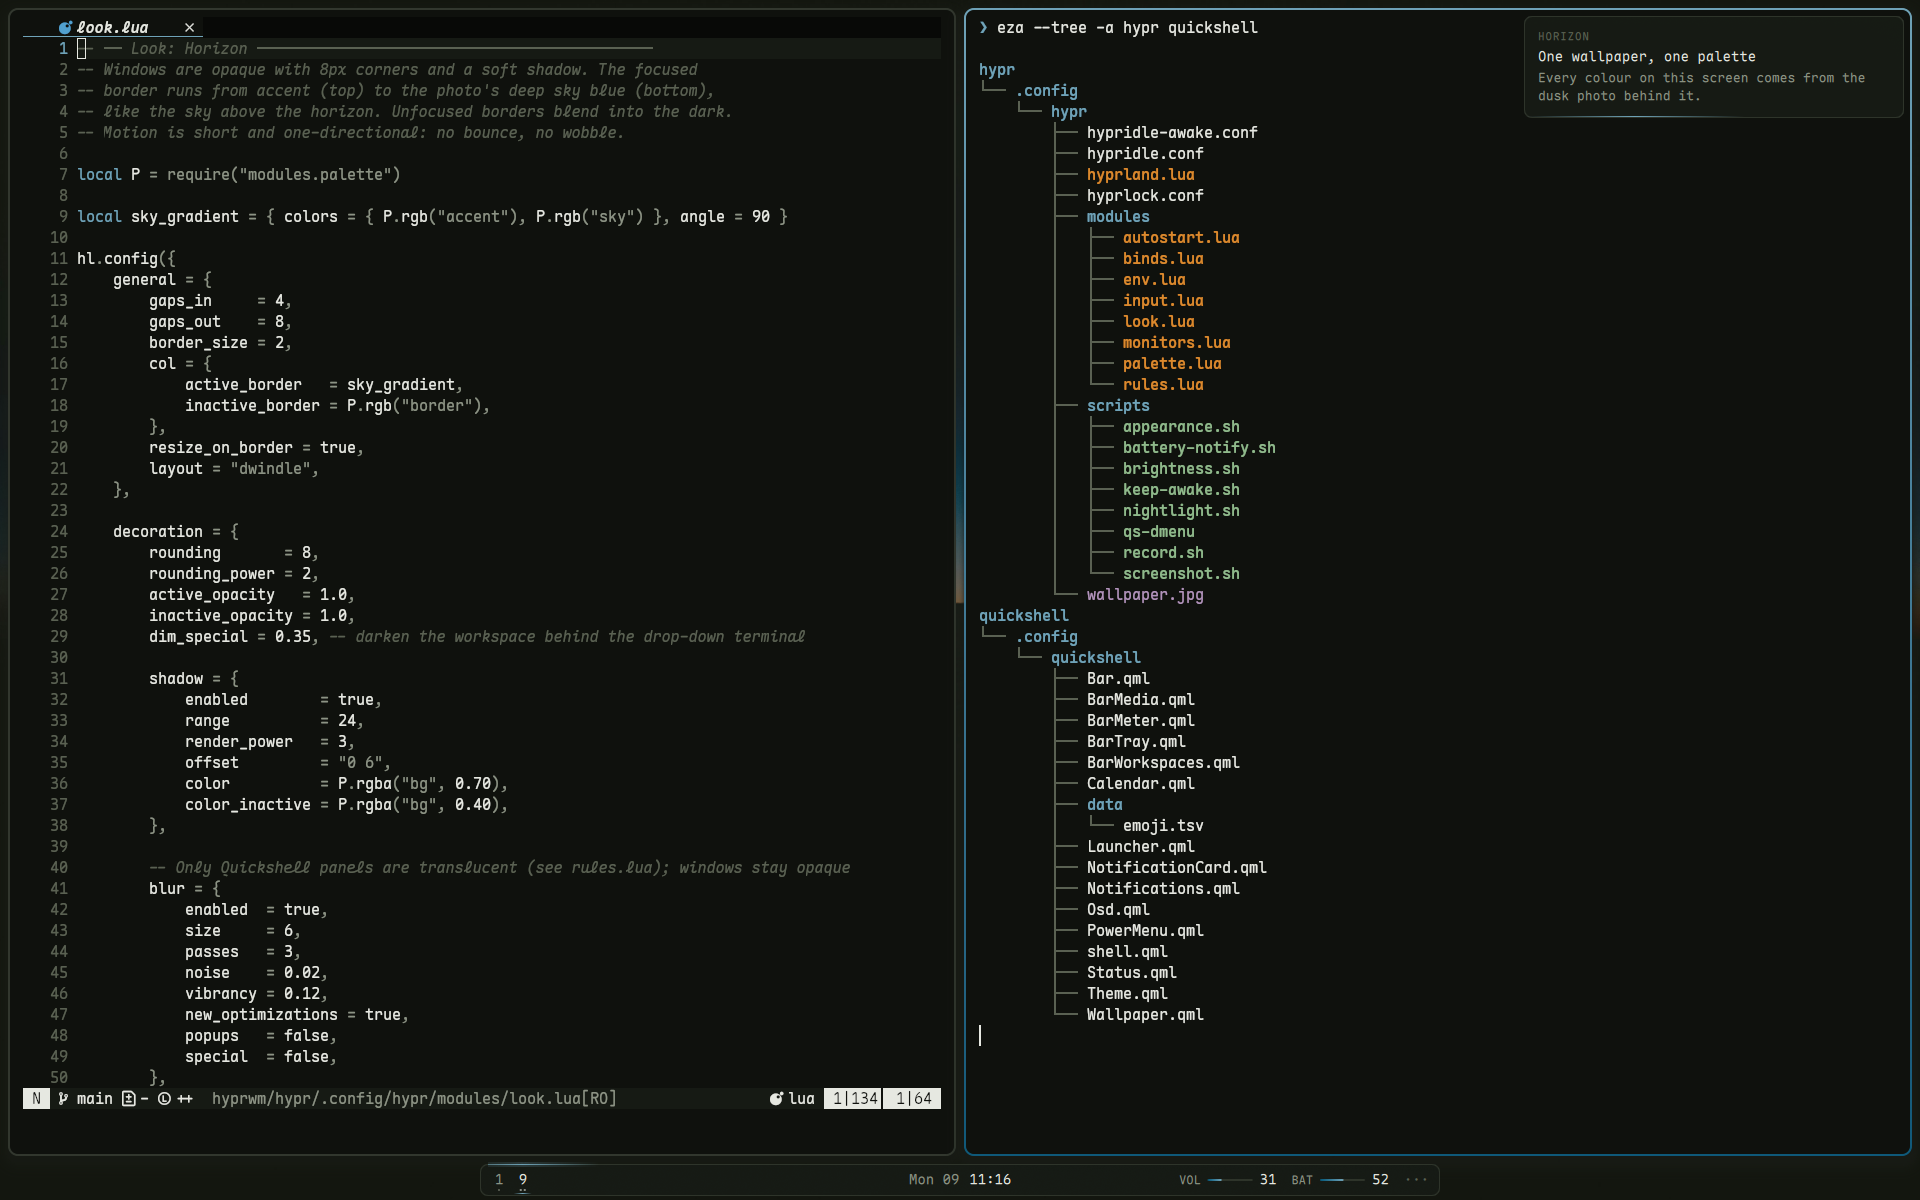
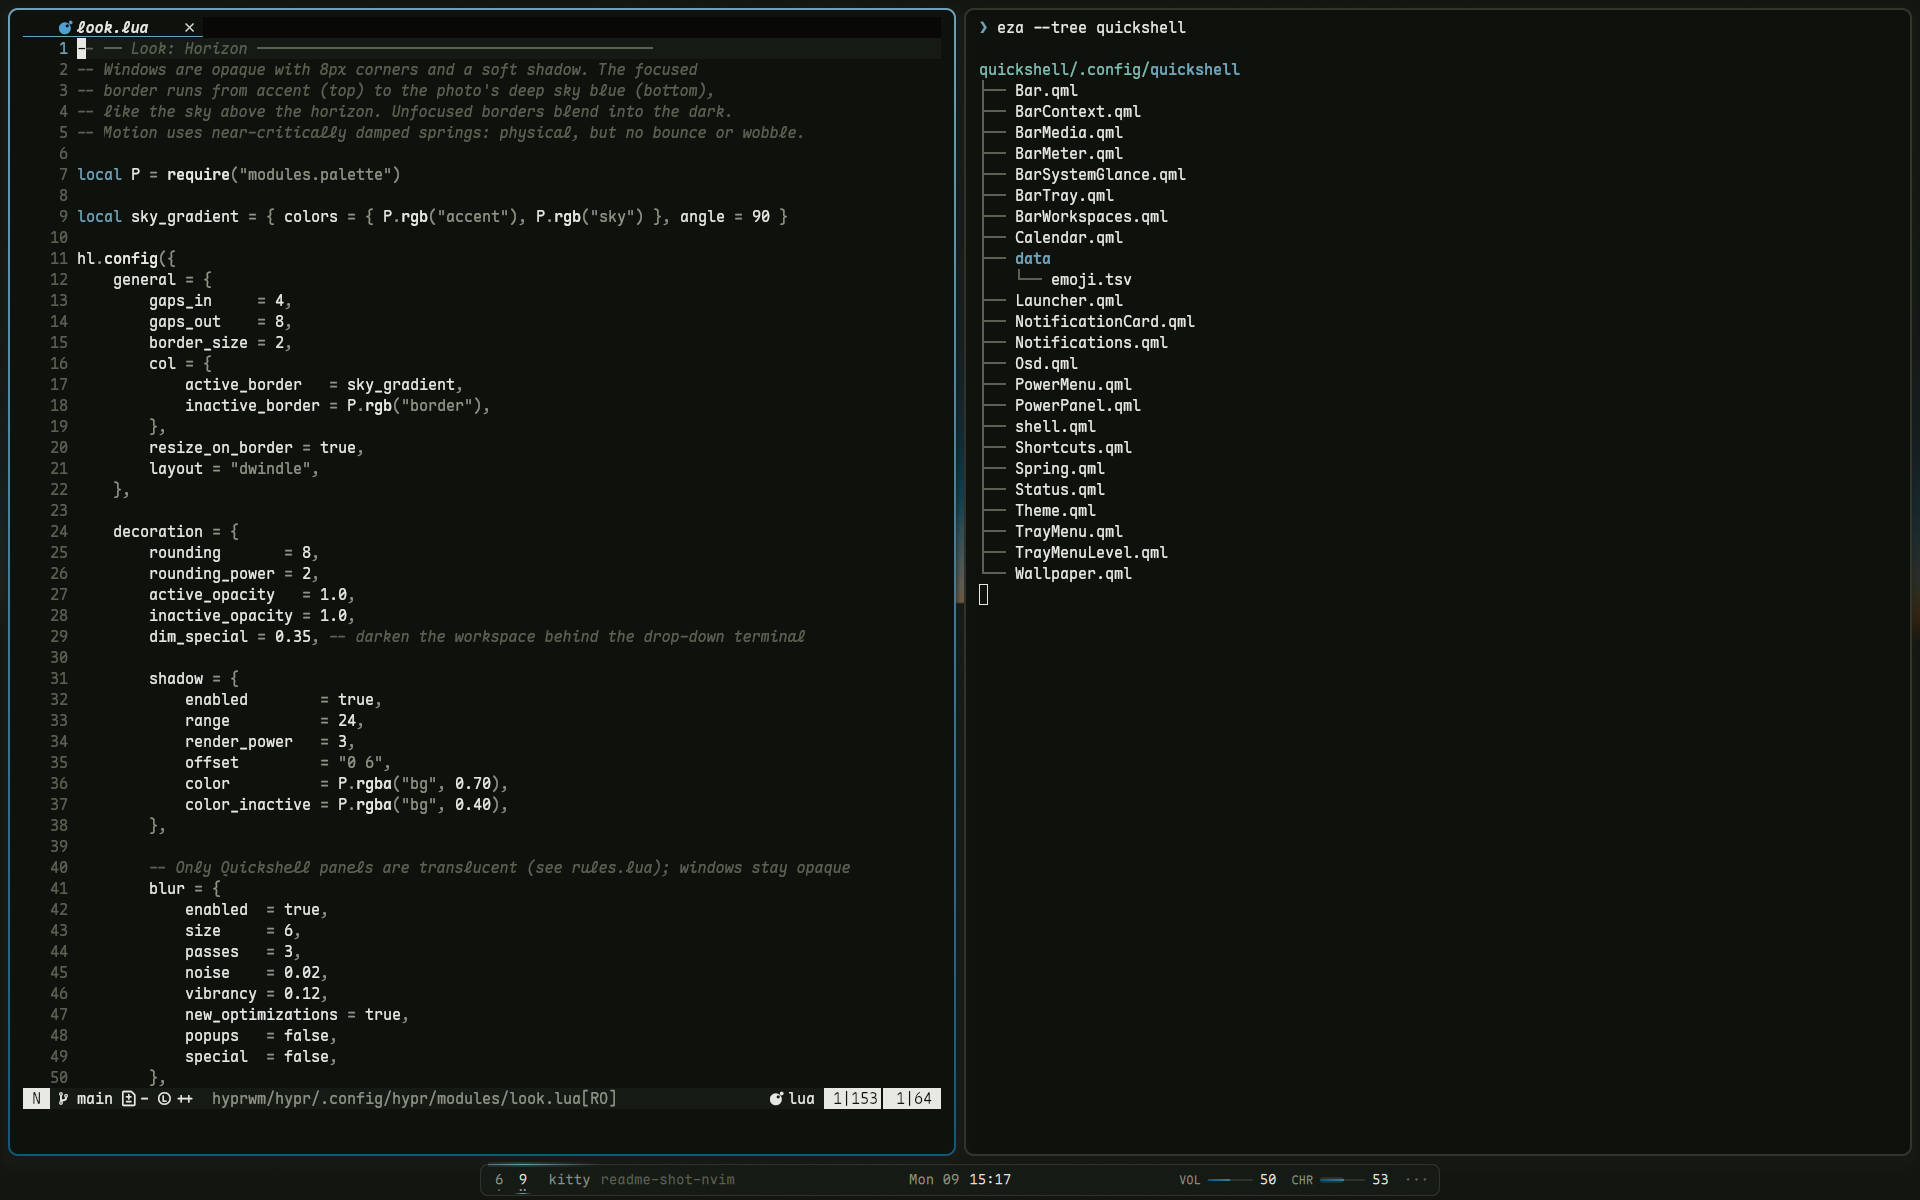
feat(bar): charging sweep, level-coloured meters, system glance
- Battery meter: one sweep of light along it when the charger is plugged in
  (or a dim one back when unplugged, a bright one at full), a soft static
  glow while charging. Nothing animates between events.
- Meters and the volume/brightness OSD: the sky -> accent gradient spans the
  whole track and the fill reveals it, so the colour shows the level.
- Empty workspace: a quiet system glance in the context slot:
  cpu temperature (amber from 85, red from 95), memory used in GB, and
  pending updates from dnf's cache (click: `sudo dnf upgrade` in kitty).
  Read only while shown. One size, two tones, like the window title.
- Fix: the context slot showed the focused window from another workspace
  on an empty one; it now requires the shown workspace.
- README: new screenshots and bar description.

diff --git a/quickshell/.config/quickshell/BarMeter.qml b/quickshell/.config/quickshell/BarMeter.qml
@@ -1,8 +1,13 @@
 import QtQuick
 
 // LABEL ━━━━── 62
-// A thin track whose fill runs sky → accent. `tone` overrides the fill and
-// value colour for warnings (amber) and critical states (red).
+// A thin track. The sky → accent gradient spans the whole track and the fill
+// reveals it, so the colour itself says the level: low shows only deep sky,
+// only high reaches the bright accent (like the sky lightening toward the
+// horizon). `tone` overrides it for warnings (amber) and critical (red).
+//
+// sweep(): one pass of light along the track (e.g. charger plugged in);
+// `lit`: a soft static glow under the fill (e.g. while charging).
 Item {
     id: root
 
@@ -12,11 +17,18 @@ Item {
     property int fontSize: 13
     property color tone: "transparent" // transparent = normal gradient
     property bool dimmed: false        // e.g. muted
+    property bool lit: false
 
     readonly property bool toned: tone.a > 0
 
     signal clicked()
     signal scrolled(int steps)
+
+    // reverse = light running back (e.g. unplugged)
+    function sweep(reverse) {
+        sweepLight.reverse = reverse === true;
+        sweepAnim.restart();
+    }
 
     implicitWidth: row.implicitWidth
     implicitHeight: row.implicitHeight
@@ -43,20 +55,68 @@ Item {
             radius: 1
             color: Theme.border
 
+            Spring { id: fillW; preset: Theme.springs.settle; to: Math.max(0, Math.min(1, root.fraction)) * track.width }
+
+            // static glow under the fill while `lit`
             Rectangle {
-                height: parent.height
-                radius: 1
-                Spring { id: fillW; preset: Theme.springs.settle; to: Math.max(0, Math.min(1, root.fraction)) * track.width }
+                anchors.verticalCenter: parent.verticalCenter
                 width: fillW.value
-                color: root.tone
-                gradient: root.toned ? null : fill
+                height: 6
+                radius: 3
+                color: root.toned ? root.tone : Theme.accent
+                opacity: root.lit ? 0.18 : 0
+                Behavior on opacity { NumberAnimation { duration: Theme.normal } }
+            }
+
+            // the fill reveals a gradient as wide as the track
+            Item {
+                width: fillW.value
+                height: parent.height
+                clip: true
+                Rectangle {
+                    width: track.width
+                    height: parent.height
+                    radius: 1
+                    color: root.tone
+                    gradient: root.toned ? null : levelGradient
+                }
             }
 
             Gradient {
-                id: fill
+                id: levelGradient
                 orientation: Gradient.Horizontal
                 GradientStop { position: 0.0; color: Theme.sky }
                 GradientStop { position: 1.0; color: Theme.accent }
+            }
+
+            // one pass of light along the track
+            Item {
+                anchors.fill: parent
+                clip: true
+                Rectangle {
+                    id: sweepLight
+                    property bool reverse: false
+                    property real p: 0          // 0..1 progress
+                    anchors.verticalCenter: parent.verticalCenter
+                    width: track.width * 0.45
+                    height: 2
+                    x: (reverse ? 1 - p : p) * (track.width + width) - width
+                    opacity: p > 0 && p < 1 ? 1 : 0
+                    gradient: Gradient {
+                        orientation: Gradient.Horizontal
+                        GradientStop { position: 0.0; color: Theme.alpha(Theme.fg, 0) }
+                        GradientStop { position: 0.5; color: sweepLight.reverse ? Theme.alpha(Theme.muted, 0.8) : Theme.fg }
+                        GradientStop { position: 1.0; color: Theme.alpha(Theme.fg, 0) }
+                    }
+                }
+                NumberAnimation {
+                    id: sweepAnim
+                    target: sweepLight
+                    property: "p"
+                    from: 0; to: 1
+                    duration: 800
+                    easing.type: Easing.InOutCubic
+                }
             }
         }
 

diff --git a/quickshell/.config/quickshell/BarSystemGlance.qml b/quickshell/.config/quickshell/BarSystemGlance.qml
@@ -1,0 +1,93 @@
+import QtQuick
+import Quickshell
+import Quickshell.Io
+
+// Quiet system glance for an empty workspace:   cpu 56°   mem 5.4 GB   updates 13
+//   cpu      package temperature (x86_pkg_temp); amber from 85°, red from 95°
+//   mem      used memory (total − available)
+//   updates  from `dnf check-update -C`: the cache dnf-makecache.timer keeps
+//            fresh, so no sudo and no network. Click: kitty with `sudo dnf upgrade`.
+// Temperature and memory every 10 s, updates at most every 30 min, and only
+// while `active` (shown), so it costs nothing the rest of the time.
+Item {
+    id: glance
+
+    property int fontSize: 13
+    property bool active: false
+
+    property int temp: -1              // °C
+    property real memGiB: -1
+    property int updates: -1           // -1 = not checked yet
+    property real _lastUpdateCheck: 0  // ms since epoch
+
+    implicitWidth: line.implicitWidth
+    implicitHeight: fontSize * 1.4
+
+    readonly property string memText: memGiB < 0 ? "–"
+        : memGiB < 1 ? Math.round(memGiB * 1024) + " MB"
+        : memGiB.toFixed(1) + " GB"
+    readonly property color tempColor: temp >= 95 ? Theme.red : temp >= 85 ? Theme.amber : Theme.muted
+
+    // temperature + memory
+    Process {
+        id: readSys
+        command: ["sh", "-c",
+            "for z in /sys/class/thermal/thermal_zone*; do [ \"$(cat $z/type)\" = x86_pkg_temp ] && { cat $z/temp; break; }; done; " +
+            "grep -E '^(MemTotal|MemAvailable):' /proc/meminfo"]
+        stdout: StdioCollector {
+            onStreamFinished: {
+                const lines = text.trim().split("\n");
+                const t = Number(lines[0]);
+                glance.temp = isNaN(t) ? -1 : Math.round(t / 1000);
+                const kb = name => Number((lines.find(l => l.startsWith(name)) || "x 0").split(/\s+/)[1]);
+                const used = kb("MemTotal:") - kb("MemAvailable:");
+                if (used > 0) glance.memGiB = used / 1048576;
+            }
+        }
+    }
+
+    // pending updates (cached metadata only)
+    Process {
+        id: readUpdates
+        command: ["sh", "-c", "dnf check-update -C -q 2>/dev/null | grep -cE '^[^[:space:]]+\\.[^[:space:]]+[[:space:]]+[^[:space:]]+[[:space:]]+[^[:space:]]+'"]
+        stdout: StdioCollector {
+            onStreamFinished: {
+                const n = parseInt(text.trim());
+                glance.updates = isNaN(n) ? 0 : n;
+                glance._lastUpdateCheck = Date.now();
+            }
+        }
+    }
+
+    function refresh() {
+        if (!readSys.running) readSys.running = true;
+        if (!readUpdates.running && Date.now() - _lastUpdateCheck > 30 * 60 * 1000) readUpdates.running = true;
+    }
+    Timer { interval: 10000; running: glance.active; repeat: true; triggeredOnStart: true; onTriggered: glance.refresh() }
+
+    // One line at the bar's normal size, two tones like the window title
+    // (labels dim, values grey); plain spacing instead of separators.
+    Text {
+        id: line
+        anchors.verticalCenter: parent.verticalCenter
+        textFormat: Text.StyledText
+        font.family: Theme.font
+        font.pixelSize: glance.fontSize
+        color: Theme.dim
+        function v(c, s) { return "<font color='" + c + "'>" + s + "</font>" }
+        readonly property string gap: "&nbsp;&nbsp;"   // three spaces read as separate pieces
+        text: "cpu " + v(glance.tempColor, glance.temp < 0 ? "–" : glance.temp + "°")
+            + gap + "mem " + v(Theme.muted, glance.memText)
+            + gap + (glance.updates < 0 ? "updates " + v(Theme.muted, "–")
+                   : glance.updates === 0 ? "up to date"
+                   : "updates " + v(Theme.muted, glance.updates))
+    }
+
+    // click the updates part: a terminal with the upgrade ready to run
+    MouseArea {
+        anchors.fill: parent
+        enabled: glance.updates > 0
+        cursorShape: enabled ? Qt.PointingHandCursor : Qt.ArrowCursor
+        onClicked: Quickshell.execDetached(["kitty", "--hold", "sh", "-c", "sudo dnf upgrade --refresh"])
+    }
+}

diff --git a/quickshell/.config/quickshell/BarContext.qml b/quickshell/.config/quickshell/BarContext.qml
@@ -6,7 +6,7 @@ import Quickshell.Hyprland
 // empty and is never crowded:
 //   something playing →  ▮▮▮ Title · Artist        (BarMedia)
 //   otherwise         →  App  window title          (focused window on this screen)
-//   empty workspace   →  nothing
+//   empty workspace   →  cpu temp · memory · pending updates, dim (BarSystemGlance.qml)
 // Never wider than `maxWidth`; long text ends in "…". Cross-fades between modes.
 Item {
     id: root
@@ -19,6 +19,9 @@ Item {
     readonly property var win: {
         const t = Hyprland.activeToplevel;
         if (!t || !monitor || !t.monitor || t.monitor.name !== monitor.name) return null;
+        // ...and on the workspace this screen is showing (an empty workspace
+        // can't take focus, so focus stays with a window on another one)
+        if (!t.workspace || !monitor.activeWorkspace || t.workspace.id !== monitor.activeWorkspace.id) return null;
         if (t.workspace && t.workspace.name && t.workspace.name.startsWith("special:")) return null;
         return t;
     }
@@ -42,9 +45,13 @@ Item {
 
     readonly property bool showMedia: media.player !== null
     readonly property bool showWindow: !showMedia && appName !== ""
+    readonly property bool emptyWorkspace: !!monitor && !!monitor.activeWorkspace
+        && monitor.activeWorkspace.toplevels.values.length === 0
+    readonly property bool showGlance: !showMedia && !showWindow && emptyWorkspace
 
     implicitHeight: fontSize * 1.4
-    implicitWidth: Math.min(maxWidth, showMedia ? media.implicitWidth : showWindow ? windowRow.implicitWidth : 0)
+    implicitWidth: Math.min(maxWidth, showMedia ? media.implicitWidth : showWindow ? windowRow.implicitWidth
+                                   : showGlance ? glance.implicitWidth : 0)
     width: implicitWidth
     clip: true
 
@@ -54,6 +61,16 @@ Item {
         fontSize: root.fontSize
         width: Math.min(implicitWidth, root.maxWidth)
         opacity: root.showMedia ? 1 : 0
+        Behavior on opacity { NumberAnimation { duration: Theme.fast } }
+    }
+
+    BarSystemGlance {
+        id: glance
+        anchors.verticalCenter: parent.verticalCenter
+        fontSize: root.fontSize
+        active: root.showGlance
+        opacity: root.showGlance ? 1 : 0
+        visible: opacity > 0
         Behavior on opacity { NumberAnimation { duration: Theme.fast } }
     }
 

diff --git a/quickshell/.config/quickshell/Osd.qml b/quickshell/.config/quickshell/Osd.qml
@@ -120,16 +120,23 @@ Scope {
                     color: Theme.border
                     opacity: root.muted ? 0.5 : 1
 
-                    Rectangle {
+                    // the fill reveals a gradient as wide as the track: the
+                    // colour says the level (deep sky low, bright accent high)
+                    Item {
                         id: fill
                         height: parent.height
-                        radius: 1
                         Spring { id: fillW; preset: Theme.springs.settle; to: Math.max(0, Math.min(1, root.value / 100)) * track.width }
                         width: fillW.value
-                        gradient: Gradient {
-                            orientation: Gradient.Horizontal
-                            GradientStop { position: 0.0; color: Theme.sky }
-                            GradientStop { position: 1.0; color: Theme.accent }
+                        clip: true
+                        Rectangle {
+                            width: track.width
+                            height: parent.height
+                            radius: 1
+                            gradient: Gradient {
+                                orientation: Gradient.Horizontal
+                                GradientStop { position: 0.0; color: Theme.sky }
+                                GradientStop { position: 1.0; color: Theme.accent }
+                            }
                         }
                     }
 

diff --git a/quickshell/.config/quickshell/Bar.qml b/quickshell/.config/quickshell/Bar.qml
@@ -141,8 +141,18 @@ Variants {
                 }
 
                 BarMeter {
+                    id: batteryMeter
                     anchors.verticalCenter: parent.verticalCenter
                     visible: bar.battery !== null && bar.battery.isLaptopBattery
+                    // charging: soft static glow; plug in / unplug / full: one sweep of light
+                    readonly property bool charging: bar.battery !== null && bar.battery.state === UPowerDeviceState.Charging
+                    readonly property bool full: bar.battery !== null && bar.battery.state === UPowerDeviceState.FullyCharged
+                    lit: charging
+                    onFullChanged: if (full) sweep(false)
+                    Connections {
+                        target: UPower
+                        function onOnBatteryChanged() { batteryMeter.sweep(UPower.onBattery) }
+                    }
                     readonly property real pct: !bar.battery ? 0
                         : (bar.battery.percentage > 1 ? bar.battery.percentage / 100 : bar.battery.percentage)
                     readonly property int whole: Math.round(pct * 100)

diff --git a/README.md b/README.md
@@ -21,11 +21,16 @@ stays grey, including app icons until you select them.
 - Left: that screen's workspaces, with a dot per window and the horizon line
   under the active one. A soft glow on the island's top edge drifts after it.
   Next to them, whatever is playing, or else the focused window as
-  `App  title`, capped so it never reaches the clock.
+  `App  title`, capped so it never reaches the clock. On an empty workspace,
+  a quiet system glance: `cpu 56°  mem 5.2 GB  updates 13` (temperature turns
+  amber from 85°; updates come from dnf's cache, click to upgrade in kitty).
 - Centre: date and time. Click for a month calendar.
 - Right: modes only while they're on (REC, AWAKE, DND, PERF in amber, SAVER
-  in grey), volume and battery meters, and a `···` tray drawer. Scroll the
-  volume to change it, click it to mute. The battery reads BAT, CHR or AC.
+  in grey), volume and battery meters, and a `···` tray drawer. The meters'
+  sky-to-accent gradient spans the whole track, so the colour itself shows
+  the level. Scroll the volume to change it, click it to mute. The battery
+  reads BAT, CHR or AC, glows softly while charging, and a single sweep of
+  light runs along it when the charger is plugged in or out.
 - Click the battery for the **power panel**: power profile (saver, balanced,
   performance, via tuned-ppd), a keep-awake switch, and time left and power draw.
 
